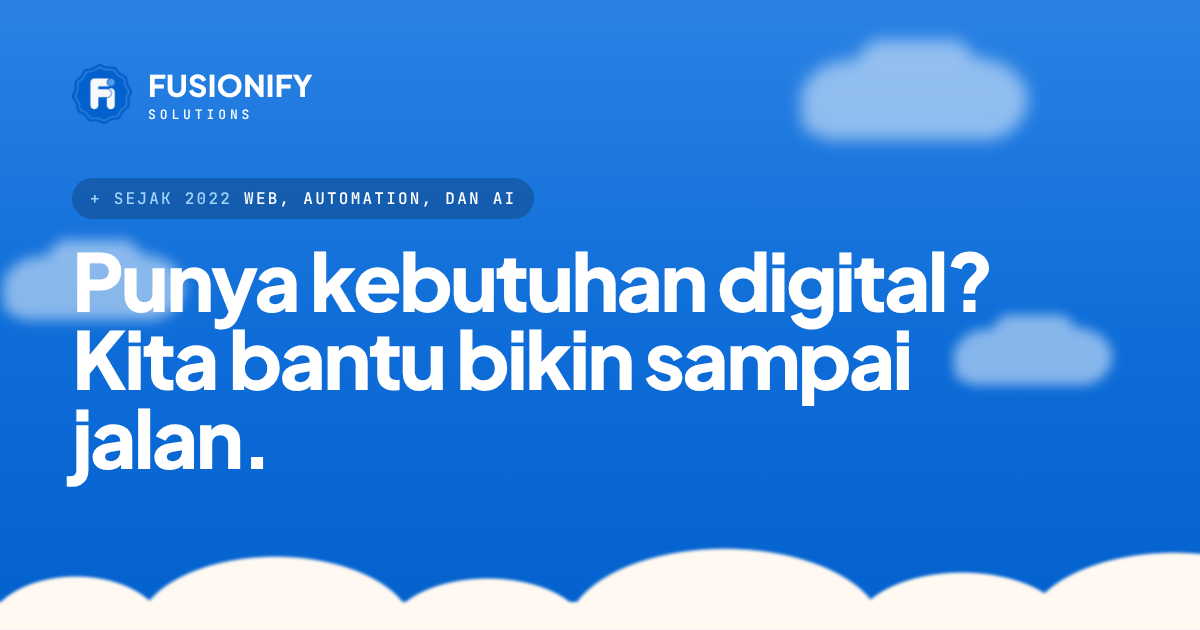
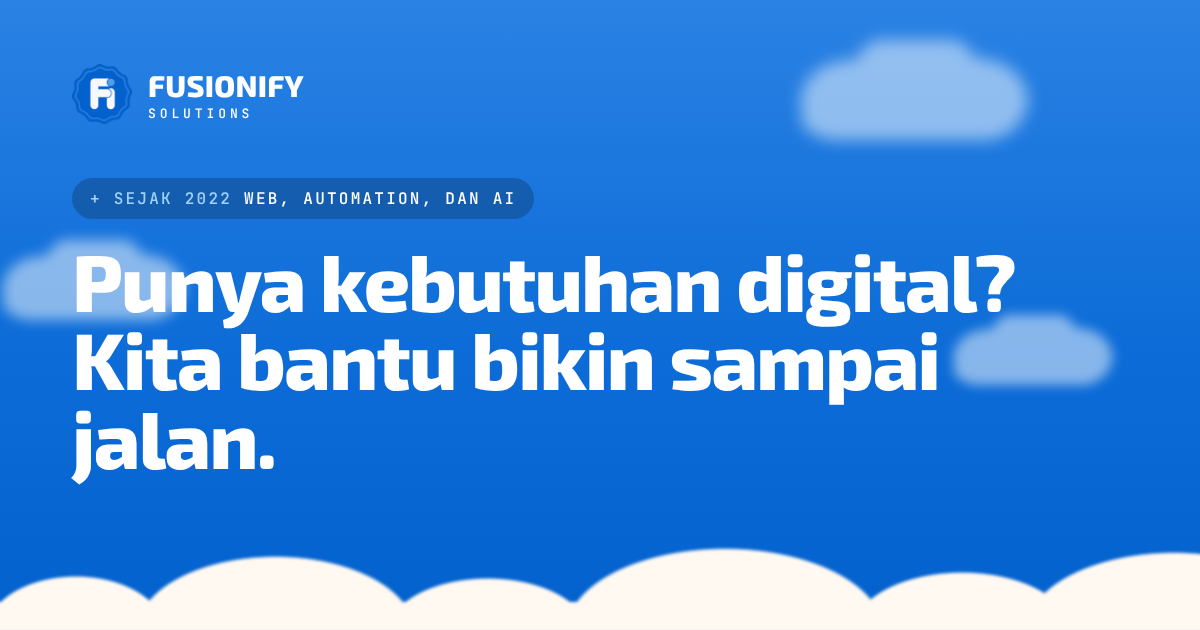
Ganti font ke Exo 2 dan copy kepemilikan jadi fleksibilitas source code
Judul dan teks isi memakai Exo 2, label dan tombol tetap JetBrains Mono.
Kalimat 'milik kamu' diganti 'Fleksibilitas source code' supaya sesuai FAQ:
kepemilikan source code dan aset disepakati sesuai model project.

Claude-Session: https://claude.ai/code/session_01Njp5D1R2GiJtkLHTc8RoDA

diff --git a/src/app/page.tsx b/src/app/page.tsx
@@ -40,8 +40,8 @@ const pillars = [
   },
   {
     icon: Key,
-    title: "Semua aset tetap milik kamu",
-    body: "Domain, akun, konten, dan aset didaftarkan atas nama client sesuai kesepakatan.",
+    title: "Fleksibilitas source code dan aset",
+    body: "Kepemilikan source code, domain, dan akun disepakati sejak awal sesuai model project, lalu diserahkan lengkap dengan dokumentasinya.",
   },
   {
     icon: Handover,
@@ -87,7 +87,7 @@ export default function Home() {
                 <Check /> Estimasi tertulis sebelum mulai
               </span>
               <span>
-                <Check /> Domain dan akun atas nama kamu
+                <Check /> Fleksibilitas source code
               </span>
             </div>
           </div>
@@ -266,8 +266,8 @@ export default function Home() {
                 <span>Mulai mengerjakan AI workflow</span>
               </div>
               <div className="fact" data-reveal>
-                <b>Milik kamu</b>
-                <span>Domain, akun, dan aset atas nama client</span>
+                <b>Fleksibel</b>
+                <span>Kepemilikan source code dan aset sesuai kesepakatan</span>
               </div>
             </div>
             <p style={{ marginTop: "1.75rem" }}>

diff --git a/src/app/globals.css b/src/app/globals.css
@@ -1,5 +1,4 @@
-@import "@fontsource-variable/plus-jakarta-sans/wght.css";
-@import "@fontsource-variable/space-grotesk/wght.css";
+@import "@fontsource-variable/exo-2/wght.css";
 @import "@fontsource/jetbrains-mono/latin-500.css";
 
 /* ==================================================================
@@ -86,11 +85,11 @@
   --amber-50: var(--beta-bg);
 
   /* type */
-  --font-display: "Plus Jakarta Sans Variable", "Plus Jakarta Sans", "Arial Black", system-ui, sans-serif;
-  --font-sans: "Space Grotesk Variable", "Space Grotesk", system-ui, sans-serif;
+  --font-display: "Exo 2 Variable", "Exo 2", "Arial Black", system-ui, sans-serif;
+  --font-sans: "Exo 2 Variable", "Exo 2", system-ui, sans-serif;
   --font-mono: "JetBrains Mono", ui-monospace, "SF Mono", Menlo, monospace;
   --font: var(--font-sans);
-  --tracking-tight: -0.035em;
+  --tracking-tight: -0.02em;
   --tracking-label: 0.14em;
 
   --t-xs: 0.75rem;

diff --git a/src/content/company.ts b/src/content/company.ts
@@ -117,8 +117,8 @@ export const principles = [
     body: "Scope, timeline, revisi, ownership, dan biaya dibahas sebelum development.",
   },
   {
-    title: "Client ownership",
-    body: "Domain, akun, konten, dan aset client tetap milik client sesuai kesepakatan.",
+    title: "Fleksibilitas source code",
+    body: "Kepemilikan source code, domain, akun, dan aset ditentukan bersama sesuai model project, dan dicatat sejak awal.",
   },
   { title: "Build for handover", body: "Sistem tidak boleh cuma dimengerti oleh developer-nya." },
   {

diff --git a/THIRD_PARTY_NOTICES.md b/THIRD_PARTY_NOTICES.md
@@ -10,13 +10,12 @@ Dipakai dengan izin. Panduan lengkap ada di `docs/DESIGN.md`.
 
 ## Font
 
-Ketiga font berikut dilisensikan di bawah SIL Open Font License 1.1 dan
-di-host sendiri lewat paket Fontsource (file lisensi ikut di dalam
+Font berikut dilisensikan di bawah SIL Open Font License 1.1 dan di-host
+sendiri lewat paket Fontsource (file lisensi ikut di dalam
 `node_modules/@fontsource*/`):
 
-- Plus Jakarta Sans, Tokotype
-- Space Grotesk, Florian Karsten
-- JetBrains Mono, JetBrains
+- Exo 2, Natanael Gama (judul dan teks isi)
+- JetBrains Mono, JetBrains (label, tombol, chip)
 
 ## Library
 

diff --git a/README.md b/README.md
@@ -48,8 +48,10 @@ sitemap, dan daftar portfolio ikut terbuat otomatis. Gambar taruh di
 
 ## Sistem desain
 
-Tampilan mengikuti FUSIONIFY Design System di `docs/DESIGN.md`. Kredit dan
-lisensi ada di `THIRD_PARTY_NOTICES.md`.
+Tampilan mengikuti FUSIONIFY Design System di `docs/DESIGN.md`, dengan satu
+pengecualian: judul dan teks isi memakai Exo 2 (bukan Plus Jakarta Sans dan
+Space Grotesk). Label dan tombol tetap JetBrains Mono. Kredit dan lisensi ada
+di `THIRD_PARTY_NOTICES.md`.
 
 ## SEO dan AI search
 
